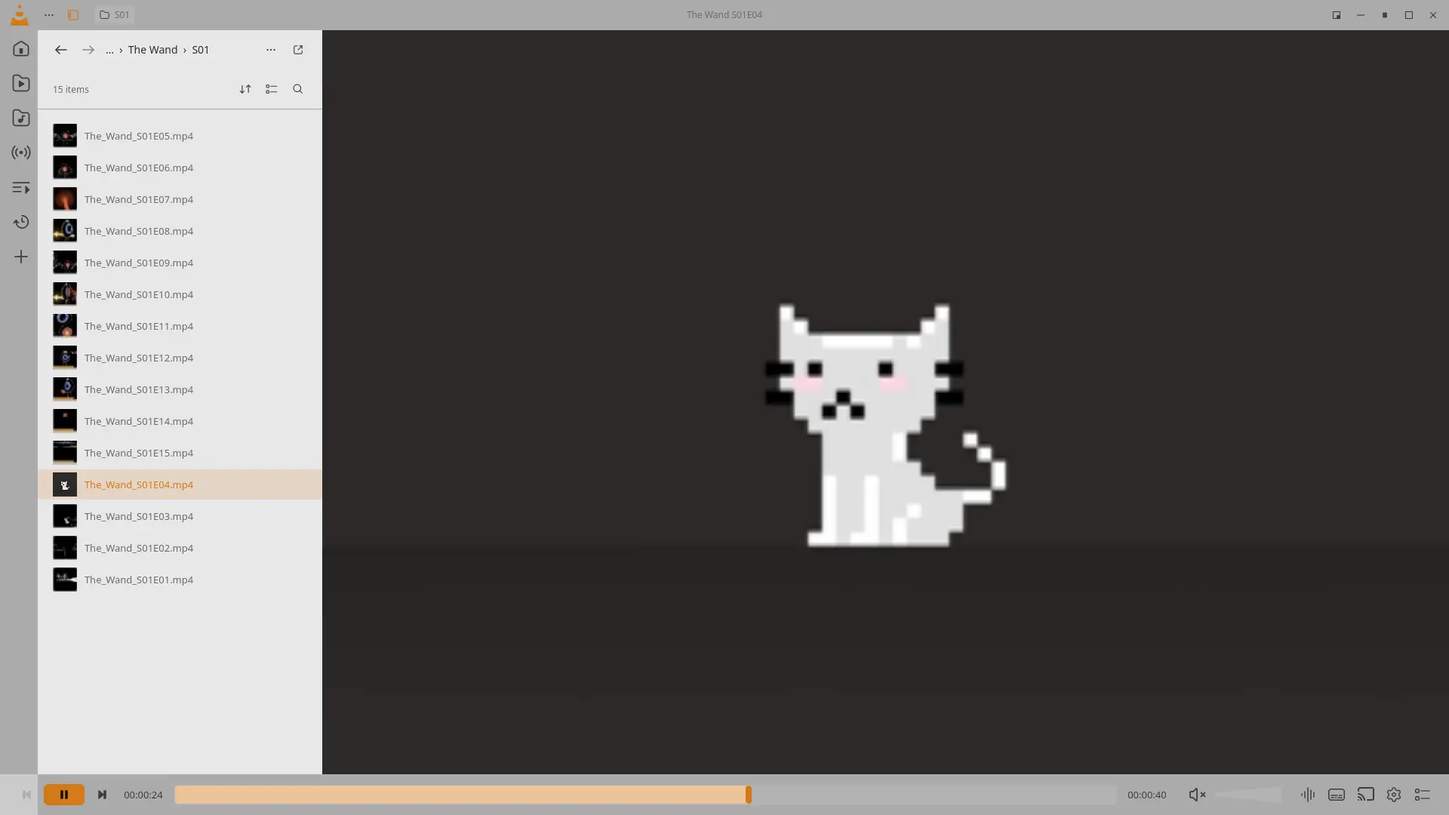
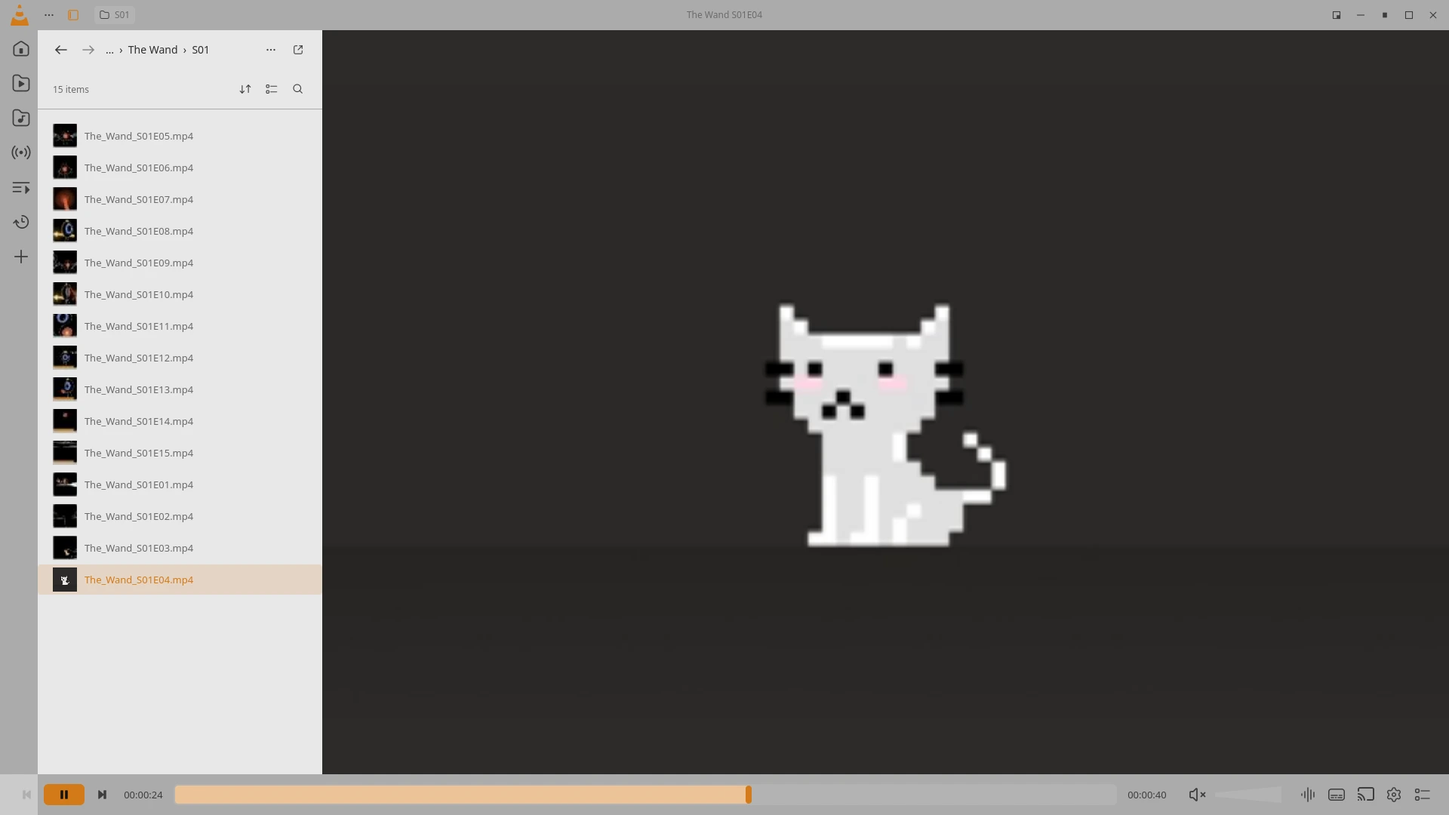
fix(sidebar): match Figma episode ordering

Changed region(s): [[0.0, 0.55, 0.25, 0.6417], [0.0, 0.6722, 0.2188, 0.7333]]

diff --git a/qml/LibraryPanel.qml b/qml/LibraryPanel.qml
@@ -374,6 +374,7 @@ Rectangle {
     }
     function matchingFiles() { return filteredCount }
     function fileCount() { return files.count }
+    function fileNameAt(index) { return index >= 0 && index < files.count ? files.get(index, "fileName") : "" }
     function extension(name) { return name.slice(name.lastIndexOf(".") + 1).toLowerCase() }
     function hasFileName(name) {
         for (let i = 0; i < files.count; ++i)

diff --git a/docs/figma-parity.md b/docs/figma-parity.md
@@ -72,7 +72,7 @@ The video canvas background uses Figma charcoal `#2C2B29` in both themes. Video 
 | **Player** — `187:328`, `970:3308`, `970:3792`, `970:2703`, `970:4028`, `6261:15078`, `247:445` | Main playback surface and its seven visual states. The metadata names all seven `Player`; node `6261:15078` is the Home library dashboard and `187:328` shows the Playlists navigation state. | `Main.qml`, `HomeView.qml`, `LibraryPanel.qml`, `PlaylistsPanel.qml`, `NavigationRail.qml`, `TopBar.qml`, `TimelineBar.qml`, `ControlBar.qml`, `SidePanel.qml`, `ControlItem.qml`, `PlayButton.qml`, `SeekBar.qml`, `ConeVolume.qml`, `ResumePill.qml`. Home opens a full library dashboard with Continue Watching video cards, indexed Listen Again music, and frequently visited indexed folders. Video cards use asynchronous VLC-decoded thumbnails and saved resume point/duration data; music cards show indexed cover art and open the selected track. The dashboard keeps the expanded rail, app title and home search toolbar while hiding playback controls. The persistent rail matches the Figma Home navigation labels and order: Home, Videos, Music, Network, Playlists, Recent and Add item. Selecting Home, Videos, Music, Playlists or Recent from the rail opens that view in a side pane beside the live player. The topbar Library control opens the Figma Home dashboard in that pane and toggles the entire rail and pane closed together, restoring the previous player or library context. The compact Home pane uses Figma-sized thumbnail rows for Continue Watching, Listen Again, visited folders and playlists. The dedicated expand action opens the full-page library, where the rail expands and the playback surface becomes the mini-player. Folder browsing remains available from the Videos library and file picker. Saved M3U, M3U8, PLS and XSPF files appear in a persistent Playlists pane; it can search, sort, change row density and play an entry. Its width scales with the player window to retain the Figma proportion from the default size to the 1920 px reference frame. The pane stays beside the live video, matching the layout in node `187:328`. The rail scales up to 210 px on wide windows, matching the folder-browser state in node `970:3308`. The browser toggles between the Figma five-column poster grid (`970:2703`) and four-column file list (`970:3792`); the mini-player moves to the lower-right in grid mode and lower-left in list mode, and grid thumbnails show saved/current playback progress. Opening a library view replaces the playback surface with a full-width local folder browser and hides the bottom transport bar; video files load asynchronous VLC-decoded thumbnails in the grid, the live video frame moves into a floating player card, and search filters filenames. Rail, track-picker, settings-panel, transport and icon controls support Tab focus and Space/Return activation with visible focus styling. The timeline and transport now share a single 54 px footer row, with the seek bar between Next and Volume; elapsed and duration labels are 64 px at desktop size, 48 px in compact windows and hidden in 320–399 px PiP while seeking remains available. This follows the one-row composition in Figma node `247:445`; preexisting saved layouts that included `time`, `seek` or `length` are migrated out of the movable control list. Compact windows retain reduced spacing. The seek bar supports Tab focus, Left/Right seeking and Home/End jumps, subtitle cue lookup, asynchronous local-video thumbnails and an audio waveform for local media. VLC decodes both off the UI thread, limited to two workers and 64 admitted thumbnail responses, with results held in a 16 MiB LRU cache; `bounded_image_cache_test` verifies the configured cost ceiling and least-recently-used eviction. Closing the UI cancels worker subprocesses and drains queued decoding before Qt image plugins tear down. Waveform extraction times out after 20 seconds on slow files. Track-picker geometry follows its button anchor and stays within the window when resized. The Video side panel previews the current frame as Original, Sepia, Invert, Posterize, Old movie, Gaussian blur, Sharpen, VHS and Grain; one VLC-decoded frame feeds all nine previews asynchronously through the bounded thumbnail cache. Selecting a tile updates VLC’s live `video-filter` chain and preserves unrelated filters. Focused real-VLC coverage confirms all nine previews load and the four additional filters apply while preserving the picture-adjustment filter. PiP switches to a compact 16:9 window, keeps its title clear at 320×180, shows only exit and quit in the top bar, requests always-on-top through Qt and additionally pins it through Hyprland, and restores the prior size and position (or maximized state) when the PiP exit button is clicked. Plain video playback hides the navigation rail and aligns the top and bottom bars to the left edge, matching `247:445`; Home, library and side-panel states show the rail. An idle folder browser omits the mini-player, matching `970:4028`. The TopBar uses the onboarding chrome layer only for the non-preview welcome/shortcut steps; in the theme preview and normal player it remains under `keyCatcher`, where its left inset accounts for the navigation rail. Smoke asserts both the 18 px theme-preview inset and the rail-width offset on the Playlists screen, covering the previous cross-parent anchor warning. The seven Player nodes listed here have now been compared at 1920×1080. Figma icon aliases are now checked against the canonical SVG resources directly: the icon test opens every alias target from the Figma resource bundle and compares its rendered pixels with the alias output; all 207 checksum-manifest entries (206 SVGs plus the index) match the pinned export commit. **Partial.** smoke coverage now verifies hover colors and focus rings for the transport and all 25 optional controls. Review artwork and waveform quality across varied real media. A fresh browser inspection of Figma node `6261:15078` shows four video cards (`The_Wand_S01E05`–`S01E07` and `DON'T BLINK`), three Listen Again cards (`untangle`, `moonlight`, `black bird`) and four frequently visited folder cards. The refreshed [`home-full-layout-review.webp`](screenshots/home-full-layout-review.webp) capture and smoke fixture now use the same 4/3/4 shelf counts; smoke asserts these counts, and a focused 1920×1080 real-VLC run decoded all four video thumbnails. The images remain labeled synthetic; exact source media and rights for Figma's embedded artwork have not been established. Also verify always-on-top behavior under Hyprland. F11 now reaches a 1920×1080 fullscreen surface under Metacity on Xvfb; moving to the bottom edge reveals the timeline and controls, and exiting restores the 1120×680 window. A live XCB run on the 1920×1080 eDP-1 display confirmed fullscreen entry and tested both fullscreen-control preferences: controls stay visible when enabled; when disabled, chrome hides and a bottom-edge pointer event reveals it with the single-row 54 px footer. The toolbar layout was compared with Figma node `247:445`; its rail-free player frame, title bar and lower controls align. The one-hour test capture confirms that a ten-minute fade remains visible across the full timeline. A focused run on [Thoughtness.ogg](https://commons.wikimedia.org/wiki/File:Thoughtness.ogg), a 46-second CC0 song, loaded and displayed its varied musical waveform in VLC. A separate ten-minute FFmpeg-generated MP3 with five known amplitude sections displayed the expected quiet, loud, silent, medium and loud blocks. A fresh local `test-waveform-variety.sh` run loaded the asynchronously decoded waveforms for one-minute jazz, classical and electronic tracks; all three rendered shapes differ and were visually reviewed. Each one-minute fixture loops a 10-second CC0 excerpt, so full-length recordings remain unreviewed. Fullscreen edge-reveal on a real display is now covered. | Smoke checks the timeline slot between Next and Volume inside the 54 px footer, its keyboard focus and Left/Right seeking, Home to start, End to playback end, pointer hover on the visible Player timeline requesting and decoding a local-video preview, asynchronous waveform decoding, and a one-hour audio waveform with a ten-minute fade. At 560×340 it also checks the compact labels, seek width and keyboard navigation; at 320×180 PiP it checks labels collapse while seeking remains enabled. Focused offscreen probes independently pass at 560×340 (`compact=true`, keyboard focus and Right seek beyond 5 s) and 320×180 PiP (transport/seek remain enabled and inside the window). The Light sidebar density probe decodes all 15 local thumbnails and reports `sidebarLayout=15/377/true`, `rowGeometry=52/120`, breadcrumb `… › The Wand › S01`, and `ready=15`. It also checks Home shelves, search and sort, compact-card mode, video-card playback, persisted resume progress, responsive layout and a decoded thumbnail at 1920×1080, playback-frame rail hiding and chrome alignment, an idle full-width folder browser without the mini-player, library indexing, playback, duration, next item and pause/resume. It focuses and activates video/recent side navigation, checks full-page folder browsing through the dedicated expand action, hidden bottom transport controls, the live mini-player and filename search, verifies a VLC-decoded folder thumbnail, toggles grid/list layout and mini-player corner placement at 1120 and 1920 px, saves an M3U8 into the persistent playlist folder, reopens the playlist view, filters a playlist name and verifies density/sort/width controls. It verifies PiP shrinks the window to 320×180 and restores its exact prior geometry. At 1120 and 1920 px it checks the rail and Playlists pane preserve their combined width ratio. It also checks popup dismissal/repositioning, clicks the Sepia and Original video-effect tiles while preserving the active picture-adjust filter, applies Gaussian blur, Sharpen, VHS and Grain through VLC while retaining adjustment, and waits for all nine asynchronous effect previews to load, and captures dark, light, compact, settings, timeline, expanded-navigation and Home/library/playlist states. The thumbnail provider smoke also submits 30 simultaneous requests (above its 24-job bound) and checks that every image eventually decodes without an error.| The refreshed [`player.webp`](screenshots/player.webp) is a 1920×1080 capture using the attributed MDN CC0 flower video; its timeline and transport share one 54 px footer row. At 1920×1080, visual comparisons now cover all seven listed Player nodes: `187:328` (playlist pane), `970:3308` (folder browser), `970:3792` (compact file list), `970:2703` (poster grid), `970:4028` (idle browser), `6261:15078` (Home) and `247:445` (player with hidden rail). The fresh 110-item compact-list capture matches node `970:3792` in four-column layout, 44 px row pitch, small decoded thumbnails and lower-left mini-player placement. A fresh comparison of node `970:2703` with the latest `folder-browser-grid-1920.png` confirms the 1920×1080 viewport, 210 px rail, header/tool row, five-column card sizing and lower-right mini-player placement. The refreshed 110-item fixture now uses the exact fifteen visible Figma poster crops from node `970:4028`, matched by episode filename and decoded through VLC; it cycles those images for the remaining names because the reference exposes only fifteen poster assets. The real source videos and artwork for the other 95 episodes are unavailable, so only visible poster parity is verified. The `187:328` playlist pane and bottom controls were also checked at 1920×1080 with the pointer revealing the controls; the combined rail and pane width follows the Figma proportion. The fullscreen toolbar was compared with node `247:445` during a live 1920×1080 XCB run on eDP-1; both fullscreen preference states and bottom-edge reveal were verified. XCB captures at 1920×1080 show the playlist Search tooltip on hover and a one-pixel accent focus ring on a rail button; the earlier 1120×680 capture shows the Playback Settings tooltip and focus ring. The full smoke run verifies hover colors and focus rings for the transport and all 25 optional controls; VLC-backed actions are exercised for Favorite, Thumbnail, Properties, Bookmarks and Replay. A focused run loaded all nine effect previews from the public [MDN CC0 flower clip](https://interactive-examples.mdn.mozilla.net/media/cc0-videos/flower.mp4); [`video-effects-flower.webp`](screenshots/video-effects-flower.webp) records the color-rich live frame and distinct effect tiles. Remaining visual checks: always-on-top behavior under Hyprland and waveform appearance on full-length genre recordings. A fresh local run produced distinct renders for one-minute jazz, classical and electronic tracks; the one-hour fixture remains synthetic. A live PiP run on the Cinnamon/Muffin desktop exposed `_NET_WM_STATE_ABOVE` and placed the 480×270 window at the expected lower-right corner. Hyprland-specific pinning still needs verification. |
 | **Player - Music** — `4767:23726`, `4778:25123` | Audio-focused player with artwork, “My Songs”, track title and a continue-watching state. | `MusicView.qml`, `LibraryPanel.qml`, `src/media_library.*`, `Main.qml`. Audio files from indexed folders are scanned asynchronously; TagLib reads title, artist, album, genre, duration and embedded cover art. SQLite persists the catalog and roots; case-folded search spans tags and file paths. Tracks, albums, artists and genres are browseable; opening an album, artist or genre lists its tracks. Folder removal and full catalog clearing remove database entries and unreferenced cached art. On the 1920×1080 Figma frame the sharp cover is 740×740 px, with a 72 px title gap and 22 px muted label; the cover scales down in compact windows. Title and artist share one line, with a darkened, full-window blurred copy of the cover behind the sharp artwork. The top bar shows “My Songs” during audio playback; clicking it toggles a 280–380 px music sidebar while playback stays visible. At 1920 px, the Songs/My Songs pane is 377 px wide, matching the Figma frame. The audio-only control bar has the Figma visualizer menu, which caps its height to the available window and scrolls its options in compact layouts. Its choices persist VLC's `audio-visual` and `effect-list` options and update the active VLC audio output, with Waveform mapped to VLC's `vuMeter` effect. The audio-only transport inserts Figma’s 15-second backward and forward buttons around Play, unless the user already placed those controls in their saved layout; both use the exact exported SVGs and invoke VLC seeking. Video playback keeps the normal three transport buttons. **Partial.** A direct browser inspection confirms both Figma screen frames are flattened image fills; the circular visualization is part of the reference artwork, not an editable vector layer. The full-player smoke capture ([`music.webp`](screenshots/music.webp)) uses the exact Figma `untangle` cover asset and tags (`untangle` — `juxtopposed`), embedded byte-identically in a generated M4A fixture. The 740 px cover, 72 px title gap, one-row footer and metadata placement were reviewed from a fresh 1920×1080 capture. The actual rail-open Songs/My Songs comparison is recorded in [`music-sidebar-songs.png`](screenshots/music-sidebar-songs.png). The shipped VLC visualizer remains live and user-selected, but uses VLC's native rendering style. | Smoke indexes tagged local audio, confirms metadata/artwork, case-insensitive tag search, filename fallback for missing tags, album grouping, artists/genres/videos, persistence after relaunch, and clearing database rows and artwork. A live offscreen run indexed the local music folder, captures the sidebar beside audio playback, confirms the second click closes it, checks that the displayed item count follows visible music tracks rather than indexed files, and checks the 740 px Figma artwork, title gap and label typography plus compact resizing. The visualizer popup tests all four effect mappings, Disabled, trigger toggling and outside-click dismissal. A focused VLC run confirmed all four modes create the active visualizer output during playback and Disabled stops it. A compact-window runtime check confirmed entering the 180 px PiP layout dismisses the transient popup and constrains its scroll viewport to the available height. The full smoke at `fbbb125` on Mint 22.3 passes 862/862, and CTest passes 13/13. This includes the exact `Previous, −15s, Play, +15s, Next` order and exported icon names; focused playback probes confirm the forward control seeks to about 16 s, the backward control returns to about 1 s, and video mode does not inject either button. A focused real-VLC offscreen capture confirms the blurred cover backdrop renders behind the sharp artwork. Smoke generates separate Figma-named audio fixtures from the existing time-varying audio source. It embeds the exact `untangle.jpg` and `moonlight.png` bytes, asserts the `untangle` title and `juxtopposed` artist, compares all three indexed covers byte-for-byte, and captures the live waveform after asynchronous decoding. Existing Neon Track fixtures remain for metadata and search integration checks.| Captures of both Figma nodes were reviewed in the local browser. The 1920×1080 music-library pane was compared against node `4778:25123` using the actual Figma Music route opened from the navigation rail. Its Songs › My Songs breadcrumb now matches the reference without the extra ellipsis. The capture shows the three Figma track titles with their exact cover assets and the 377 px pane; the topbar “My Songs” toggle is verified separately. The full-player capture uses the matching `untangle` title, artist and cover, while preserving the decoded live waveform. A fresh local capture confirms the 15-second seek buttons sit around Play at the same 1920×1080 positions as the Figma frame, using the `backward-15-sec` and `forward-15-sec` exports. The Figma artwork is a flattened raster composition, so its baked circular visualization cannot be independently compared with VLC's native live visualizer. Separate VLC Neo integration runs read title/artist/album/genre from MP3, FLAC, Ogg and M4A, used the filename for an untagged WAV, and removed stale paths after a media rename and removal on rescan. Embedded covers from MP3, FLAC and M4A produced the same SHA-256 as the source image. A local run indexed 5,000 M4A paths: adding the root returned in 14 ms and the scan completed in under 9 seconds on this machine. |
 | **Player - hide UI** — `3328:11554` | Video view with interface controls hidden. | `Main.qml`, `TopBar.qml`, `ControlBar.qml`. Ctrl+H hides the top bar, navigation rail, home screen and bottom controls, including when no media is loaded. Moving to the top edge reveals the header; moving to the bottom edge reveals transport controls; returning to the center hides them again. The Figma frame shows a decorative pixel-art cat as its video content; Neo leaves the active video visible. **Implemented.** | Smoke verifies the empty and playing states, checks top- and bottom-edge reveal plus center hide, and captures a 1920×1080 frame with OSD and title overlays disabled. The test assertions confirm all chrome flags are hidden after the pointer returns to the center, and that Ctrl+H suppresses its confirmation toast when hiding the interface.| Compared node `3328:11554` in the connected Figma browser. The 1920×1080 Xvfb/XCB capture shows the Sintel trailer while the title bar, controls and toast are absent. Direct comparison with the Figma frame confirms the full-screen hidden-chrome state; the visible difference is the active media content (Sintel versus Figma’s pixel-art cat). Sintel attribution and CC BY 3.0 are recorded in the README. |
-| **Player - Light** — `2425:13624` | Light player with a narrow folder list beside the live video. | `NeoTheme.qml`, `Main.qml`, `TopBar.qml`, `LibraryPanel.qml`. Clicking the video folder chip opens a responsive folder sidebar while video remains in the main surface; clicking it again closes the sidebar. The frame was compared in the browser at 1920×1080. Figma’s side pane measures 377 px; Neo now uses the same 19.635% proportion at standard and wide sizes, with a 220 px minimum for compact windows. Compact rows use small VLC-decoded video thumbnails even when the full browser is in grid mode; the sidebar no longer lets grid-card sizing overflow its 38 px rows. The compact folder header now matches Figma: Back/Forward, breadcrumb, More and Open full page above the item-count and sort/view/search toolbar. Pin and Close are hidden in this mode; Play folder and Queue all stay in the full folder browser. Back/Forward navigate between the current folder and its parent, including the initial folder route. A fresh side-by-side 1920×1080 comparison exposed excess vertical space after the breadcrumb and before the first media row; the compact-only margins now align the counter row and first thumbnail with Figma. The focused 15-item probe asserts `rowGeometry=52/120`, decodes all 15/15 thumbnails, and confirms the toolbar/search remain usable at 560×340. Search starts as an icon and expands into a field on demand; the full-width browser retains its search field. The light rail and title bar use Figma A3 at 75% opacity over the charcoal canvas; the sidebar uses B1 at 80%. [`player-light-sidebar.webp`](screenshots/player-light-sidebar.webp) shows the current implementation. **Partial.** the poster artwork is dynamic media content. A fresh 1920×1080 comparison measures the pane at 377 px; focused responsive probes measure 262 px at 1333 px and 220 px at 560×340, leaving 310 px for video in the compact window. Landscape, 4:3, portrait and square video rows stay within their fixed thumbnail bounds. | The full real-VLC smoke at `fbbb125` passes 862/862, including sidebar visibility, 377/262/220 px responsive widths at 1920/1333/560 px, decoded video thumbnails, collapsed/expanded search, filtering, pinning, navigation, closure and compact-window usability. Cross-distro CI run `40811644836` predates the latest width correction. The compact toolbar stays visible while Play folder and Queue all remain hidden there.| Reopened Figma node `2425:13624` in the authenticated browser and compared it with the local capture: the rail and pane widths, header and file-row start positions align. A fresh lossless XCB capture sampled the sidebar at RGB 194,194,193, matching Figma at the same light-gray panel fill; its blank video canvas sampled RGB 44,43,41, matching Figma charcoal `#2C2B29`. The earlier one-channel differences came from comparing against a lossy WebP capture, so no theme-token change was needed. The refreshed fixture uses the 15 thumbnail pixels shown in Figma node `2425:13624`; E04 also uses a full-resolution Figma image export for the playback frame. The focused run reports 15/15 decoded thumbnails, a 377 px pane, `rowGeometry=52/120`, the collapsed `… › The Wand › S01` breadcrumb and Figma Back/Forward/More/Open controls. The screenshot-derived crops are documented as low-resolution visual fixtures, not original episode media. The refreshed 560×340 [`player-light-sidebar-compact.webp`](screenshots/player-light-sidebar-compact.webp) capture confirms a 220 px pane, 310 px video area, and visible compact toolbar and search. |
+| **Player - Light** — `2425:13624` | Light player with a narrow folder list beside the live video. | `NeoTheme.qml`, `Main.qml`, `TopBar.qml`, `LibraryPanel.qml`. Clicking the video folder chip opens a responsive folder sidebar while video remains in the main surface; clicking it again closes the sidebar. The frame was compared in the browser at 1920×1080. Figma’s side pane measures 377 px; Neo now uses the same 19.635% proportion at standard and wide sizes, with a 220 px minimum for compact windows. Compact rows use small VLC-decoded video thumbnails even when the full browser is in grid mode; the sidebar no longer lets grid-card sizing overflow its 38 px rows. The compact folder header now matches Figma: Back/Forward, breadcrumb, More and Open full page above the item-count and sort/view/search toolbar. Pin and Close are hidden in this mode; Play folder and Queue all stay in the full folder browser. Back/Forward navigate between the current folder and its parent, including the initial folder route. A fresh side-by-side 1920×1080 comparison exposed excess vertical space after the breadcrumb and before the first media row; the compact-only margins now align the counter row and first thumbnail with Figma. The focused 15-item probe asserts `rowGeometry=52/120`, the exact Figma order E05–E15 then E01–E04, decodes all 15/15 thumbnails, and confirms the toolbar/search remain usable at 560×340. Search starts as an icon and expands into a field on demand; the full-width browser retains its search field. The light rail and title bar use Figma A3 at 75% opacity over the charcoal canvas; the sidebar uses B1 at 80%. [`player-light-sidebar.webp`](screenshots/player-light-sidebar.webp) shows the current implementation. **Partial.** the poster artwork is dynamic media content. A fresh 1920×1080 comparison measures the pane at 377 px; focused responsive probes measure 262 px at 1333 px and 220 px at 560×340, leaving 310 px for video in the compact window. The refreshed [`player-light-sidebar.webp`](screenshots/player-light-sidebar.webp) now reproduces Figma’s E05–E15, E01–E04 row order and selected E04. Landscape, 4:3, portrait and square video rows stay within their fixed thumbnail bounds. | The full real-VLC smoke at `fbbb125` passes 862/862, including sidebar visibility, 377/262/220 px responsive widths at 1920/1333/560 px, decoded video thumbnails, collapsed/expanded search, filtering, pinning, navigation, closure and compact-window usability. Cross-distro CI run `40811644836` predates the latest width correction. The compact toolbar stays visible while Play folder and Queue all remain hidden there.| Reopened Figma node `2425:13624` in the authenticated browser and compared it with the local capture: the rail and pane widths, header and file-row start positions align. A fresh lossless XCB capture sampled the sidebar at RGB 194,194,193, matching Figma at the same light-gray panel fill; its blank video canvas sampled RGB 44,43,41, matching Figma charcoal `#2C2B29`. The earlier one-channel differences came from comparing against a lossy WebP capture, so no theme-token change was needed. The refreshed fixture uses the 15 thumbnail pixels shown in Figma node `2425:13624`; E04 also uses a full-resolution Figma image export for the playback frame. The focused run reports 15/15 decoded thumbnails, a 377 px pane, `rowGeometry=52/120`, the collapsed `… › The Wand › S01` breadcrumb and Figma Back/Forward/More/Open controls. The screenshot-derived crops are documented as low-resolution visual fixtures, not original episode media. The refreshed 560×340 [`player-light-sidebar-compact.webp`](screenshots/player-light-sidebar-compact.webp) capture confirms a 220 px pane, 310 px video area, and visible compact toolbar and search. |
 | **Player - customize** — `2107:5604`, `2160:6137`, `2160:6564`, `2160:7005`, `2160:7437`, `2160:7869`, `6587:19923`, `2160:8301`, `2160:8732` | Nine separate visual states: the palette, multiple saved control-bar layouts with already-used items removed from the palette, and a folder-browser state with the customized bar. Figma frame captures for all nine have now been inspected; the last state (`2160:8732`) is the folder browser, not an open customization dialog. | `CustomizeDialog.qml`, `ControlItem.qml`, `ControlBar.qml`, `TimelineBar.qml`, `NeoTheme.qml`, `MediaPropertiesDialog.qml`. Palette has 30 supported Figma controls in a 9-column grid; the unsupported HDR action leaves one reserved empty slot at its Figma position, while Playlist Name displays the opened playlist filename; the 1060×666 dialog and compact tiles align with node `2107:5604`. At short window heights, the content scrolls above a fixed footer so profile actions stay reachable. The fixed timeline, elapsed time and duration stay outside the movable palette. Previously saved `time`, `seek` and `length` controls are filtered out during layout reads, preserving the rest of each user's layout. Previous, Play and Next remain fixed on the bar, cannot be removed, and cannot be dragged directly; other controls can be added, reordered and removed around them. HDR remains omitted because VLC Neo has no corresponding working action. Reset/Save/Cancel are separate. Implemented controls include persistent favorites, seek-thumbnail toggle, replay, media properties, bookmarks and chapter access, plus 15-second skips, metadata labels, playlist/home/settings actions and quit. New installs use the Figma transport, fixed timeline and audio/subtitle/settings/queue layout; extra Neo controls remain available in the palette. Named profiles save and restore theme, accent, auto-hide behavior, window startup preference, control layout and a curated set of supported VLC playback, decoding, buffering, audio/video filter and subtitle appearance options. Below 720 px, metadata controls and leading flexible space collapse so playback controls flow from the left; below 400 px, the bar retains Previous, Play, Next, volume and fullscreen. **Partial.** | Full smoke verifies the 30 active controls, the fixed Figma HDR slot and Playlist Name position, keyboard focus and activation of transport/icon controls, focus-fill and accent-ring assertions for palette/bar tiles, Space add/remove actions, fixed transport controls, compact toolbar reflow at 560 px and 320 px, dynamic palette membership, legacy-layout migration, drag add/reorder/remove, cancel, action behavior and a customized folder-browser layout. A focused dialog run saves a named profile, scrolls to its row and activates Apply, then confirms that buffering, hardware-decoder, video-filter, subtitle-style and playback options are restored; proxy-password injection is rejected. The corrected full smoke passed all 668 checks with the rebuilt `build-fidelity2` plugin, including the shortcut-reset assertion and recording scenario under full-suite load. Focused palette checks verify transparent/borderless idle tiles, Figma-colored pointer hover, and the accent focus ring.| Rendered and compared local 1920×1080 captures for the saved-layout states in `2160:6137`, `2160:6564`, `2160:7005`, `2160:7437`, `2160:7869`, `6587:19923` and `2160:8301`. The `2160:8732` folder-browser state was also compared in the connected Figma browser; rail and pane widths, titlebar, timeline, transport and centered-title visibility align. The refreshed [`customize-folder-browser.webp`](screenshots/customize-folder-browser.webp) capture now uses all 15 reference filenames and their screenshot-derived Figma stills; the sidebar probe asserts the custom control layout and hides the duplicate centered title while its Filename control is shown. It also confirms the title remains visible in the default layout. The crops remain low-resolution visual fixtures, not source videos, as documented in [`FIGMA-HOME-ASSETS.md`](../tests/fixtures/FIGMA-HOME-ASSETS.md). The freshly regenerated `customize.webp` matches node `2107:5604` with the unsupported HDR slot kept empty; the Quit VLC label now matches the reference: Figma palette items have no card outlines, so the idle local palette tiles are transparent and borderless. The pointer-hover fill uses `#191919`, matching Figma Button Variant2; focused tiles retain the accent outline. The smoke now pointer-targets the Settings, Queue, Audio, Subtitle and Play controls by object name; a focused real-VLC run at 1120×680 confirmed each reports its Figma hover fill and icon/accent color. The centered title now follows VLC media metadata, respects `qt-name-in-title`, and elides within its 42% width. Directly comparing Figma node `2160:6137` in the connected browser showed its media title centered in the titlebar; a focused VLC run confirmed the matching dynamic label and fixed app-label fallback. Node `2160:8732` instead puts the filename in the custom bottom bar and leaves the titlebar center empty; `TopBar.qml` hides the duplicate title only when the saved layout includes Filename. Focused real-VLC checks confirm default title visibility and its absence in that custom layout. The smoke pointer-targets Settings, Queue, Audio, Subtitle, Play, Previous and Next and checks the volume-mute hover in dark (`#191919`) and light (`#B3B3B3`) themes. A focused real-VLC run then appended each of the 25 optional icon controls to the default layout one at a time and verified its visible hover fill, one-pixel accent focus ring and focused hover surface; the smoke runner now repeats all 50 checks. Palette/bar tiles have their own focus-ring checks. |
 | **Settings - global** — `999:5047`, `3046:9282` | Global/app preferences: appearance, startup, diagnostics, developer options and advanced settings. | `SettingsDialog.qml` follows Figma's Global Settings header, search field and App / Media / System category groups. A persisted Simple / Advanced switch exposes VLC options marked advanced without discarding their stored values; category icons switch to their exported Figma active-state SVGs when selected; the refreshed Video capture uses `video-active.svg`. Numeric controls validate input and retain fractional values for float options. Theme/accent, one-instance, queue behavior, file logging, browsable log destination/detail, VLC verbose logging as Developer mode and the `qt-error-dialogs` confirmation/error switch are wired; onboarding access is under Interface settings. The log destination field is 180 px wide and its Browse button stays beside it. Startup includes an opt-in VLC Neo update check against the project's public GitHub tags, with semantic version comparison and a daily cooldown; it reports a newer tag and never downloads or installs software. The installed version comes from CMake's project version. The header keeps the Figma search/title/close layout; the redundant quick detail toggle was removed. The Advanced Options control stays named as in Figma when expanded and sits at the bottom of the page. The expanded section maps minor-warning visibility to VLC quiet mode, log format to `logmode`, statistics collection to `stats`, and additional interfaces to `extraintf`. Global accent swatches use the compact square treatment from the Figma frame; onboarding retains its separate circular swatches. The frame was compared at its 1048×865 Figma dimensions. The Figma language selector is represented by a disabled English-only row with a clear explanation; additional interface translations are not bundled. **Partial.** | Smoke asserts the 1048×865 Figma frame and 180 px log destination field, captures the Figma Global Settings example state in `docs/screenshots/settings-global.webp`, exercises category filtering and the detail-level button, verifies that the log-path Browse button opens the native save picker, checks integer/float parsing, round-trips a float VLC option, verifies advanced-option visibility/value/mode persistence, round-trips `qt-error-dialogs` and VLC verbose logging, confirms the Developer mode switch updates when verbosity changes elsewhere, verifies Simple/Advanced visibility plus the live quiet/logmode/stats controls, checks update opt-in/default state, numeric tag ordering, daily cooldown and preference persistence, and checks theme/accent and VLC config persistence. A focused real-VLC geometry check confirms all nine General-page accent swatches use 3 px square corners while all nine onboarding swatches remain circular; both 1048×865 General captures were refreshed. A live offscreen request to GitHub returned successfully and found no tag newer than `v0.1.0`.| Compared the refreshed 1048×865 `settings-global.webp` against the shared Global Settings content in Figma nodes `999:5047` and `3046:9282`: English language, Dark theme, orange accent, confirmation and update checks off, logging on, Developer mode off and Errors only. A direct browser comparison found Startup and Diagnostics content 20 px too high; Startup now has the matching top gap, and the refreshed capture aligns through the log controls and Advanced Options row. Node `999:5047` is intentionally at 20% opacity, so its dimmed colors do not establish the app palette; node `3046:9282` is at 100% opacity and supplies the full-strength color reference. Its expanded Advanced controls for minor warnings, log format and playback statistics now map to VLC’s `quiet`, `logmode` and `stats` settings; the additional-interface row maps to VLC’s `extraintf` and is labeled for that real behavior. The Figma field named “Additional command line options” has no equivalent live VLC config option, so Neo keeps its general option editor instead of implying arbitrary command-line tokens will be applied. [`settings-global-advanced.webp`](screenshots/settings-global-advanced.webp) records the expanded state. The visible Core output verbosity and generic option editor are additional Neo controls. Additional UI translations remain an explicit localization gap. |
 | **Settings - interface** — `3046:10057`, `3062:11379` | Skin, window behavior, playback controls, notifications, system tray and auto-hide options. | `SettingsDialog.qml` fills the application window edge to edge with square corners and follows its resizing at the Figma frame size. At 1048×865, runtime bounds are exactly (0,0,1048,865), and the Interface page section positions match node `3046:10057`. Below 740 px, the category rail compacts to icon buttons with hover labels, preserving the 320 px settings fields at 560×340. The page gives the category its Figma title and follows the Figma order: Skin, Window, Playback Controls, Notifications and System Tray, then Setup. Auto-hide uses the Figma drop-down and a continuous 0–10 s slider; the supported row controls use the 320 px Figma width. `NCombo.qml` renders the selected value, outlined field and visible option rows, with selected-option checkmark, pointer selection, keyboard navigation and outside-click dismissal. Its compact 32 px field and option rows fit the preferences layout. `NSwitch.qml` now uses the Figma's 62 × 28 px ON/OFF proportions, with focus and keyboard activation. Interface controls include persistent fullscreen visibility, compact startup sizing, remembering window size/position, keeping the window above others, showing the media title in the system window title, resizing to video dimensions, and selecting the current or a detected display. The custom header shows the active media title when `qt-name-in-title` is enabled and falls back to “VLC Media Player” when that preference is disabled or no media is active; long titles elide within the centered title area. The selected display is applied before entering fullscreen. Window geometry is restored at startup and saved when Neo closes. The tray icon registers through `org.kde.StatusNotifierWatcher` without Qt Widgets and reopens Neo when activated; track notifications use `org.freedesktop.Notifications` according to VLC's Never / When minimized / Always preference. The Skin section writes VLC's `intf=skins2` preference and the selected `.vlt` path writes `skins2-last`; the regular `vlc` launcher honors skins2 after restart, while `vlc-neo` always opens Neo. The embedded-video and window-decoration controls store their VLC video-output options and explain that Neo's own player window always embeds video and draws its custom title bar. Those two options affect compatible VLC video-output interfaces, not Neo's QML window. **Partial.** | Smoke checks the skins2 interface selection and restart notice, `.vlt` file picker, embedded-video and decoration option round trips, full-window preference geometry (`settingsBounds=0,0,1048,865`) and resizing, the compact icon rail and 320 px controls at 560×340, slider mouse/keyboard changes, auto-hide modes, topmost/title behavior, fullscreen-on-open, F11 fullscreen entry/exit with geometry restoration, display selection/config persistence, compact startup, geometry save/restore, tray registration when a watcher is available, access to onboarding from Interface settings, dropdown toggle/selection behavior, and captures the interface page to `docs/screenshots/settings-interface.webp`. A VLC playback check confirms the titlebar displays the media title when enabled and falls back when disabled; a config round trip confirms `qt-video-autoresize` is exposed and writable.| Both 1048×865 captures were compared with nodes `3046:10057` and `3062:11379` in the Figma browser at 86% canvas zoom. The dropdown field and open menu were compared with the Figma component named `Dropdown`; the switch proportions were compared on the same Figma settings frame. The refreshed [`settings-interface.webp`](screenshots/settings-interface.webp) uses the matching Figma preference states and fills the frame edge to edge; Skin, Window, Playback Controls and Notifications and System Tray section positions were compared at 1048×865; a real-VLC resize run confirms the compact 560×340 view retains category navigation and the full-width auto-hide control. The screenshot sandbox sets `intf=skins2` to reproduce the Figma ON state while the smoke runner explicitly starts Neo. Confirm skins2 rendering with a valid `.vlt` skin. On this Ubuntu install, both `/usr/share/vlc/skins2/default.vlt` and an official VideoLAN `VLC Darkness.vlt` fail extraction and VLC exits with “no skins found”. This VLC build reports `--disable-libtar`, which likely prevents loading these archive-based skins; the regular launcher honors `intf=skins2`, but skin rendering remains unverified. F11 entry/exit was also checked under Mutter on the 1920×1080 eDP-1 display: fullscreen covered the display and exiting restored the 1120×680 window geometry. Only one monitor is available here, so multi-screen selection remains open. The secondary Figma frame `3062:11379` was also opened in the authenticated browser and compared with the local 1048×865 capture: the search/header, category rail, skin controls, window options and playback-controls sections align in size and position. Skin rendering and the documented decorations limitation remain open. |
@@ -280,3 +280,6 @@ Waveform contrast follow-up (2026-10-29): compared the music player against Figm
 
 
 Thumbnail saturation recovery follow-up (2026-10-29): CI run [`40914589077`](https://github.com/alexandreolives/vlc-neo/actions/runs/40914589077) reproduced seven failed thumbnails in the 88-row compact-list viewport when the bounded image provider rejected a burst of requests. Folder video cells now retry transient image-provider errors up to four times with staggered delays; the response cap and two decode workers are unchanged. A focused real-VLC run now passes the complete 110-item flow and reaches `88/88/0/0` (visible/ready/loading/error) within the existing 24-second window. Cross-distro CI still needs to confirm the recovery.
+
+
+Focused Figma follow-up (2026-10-29): the Player-Light sidebar fixture had reversed E01–E04 because its synthetic modification times did not match node `2425:13624`. `scripts/test-sidebar-density.sh` now creates the reference order and checks the live FolderListModel order through `LibraryPanel.fileNameAt()`. The real-VLC probe passes, with `rowGeometry=52/120`, all 15 thumbnails decoded, and the refreshed 1920×1080 capture showing the selected E04 in the final row.
